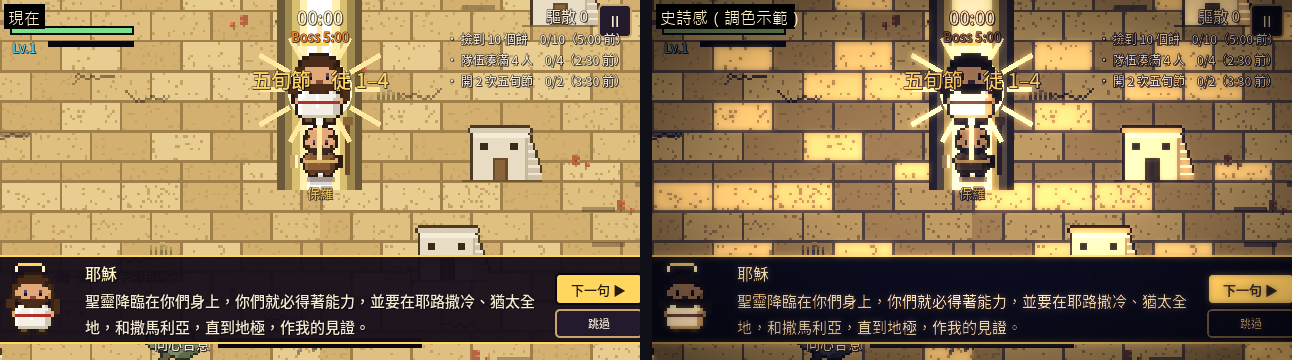
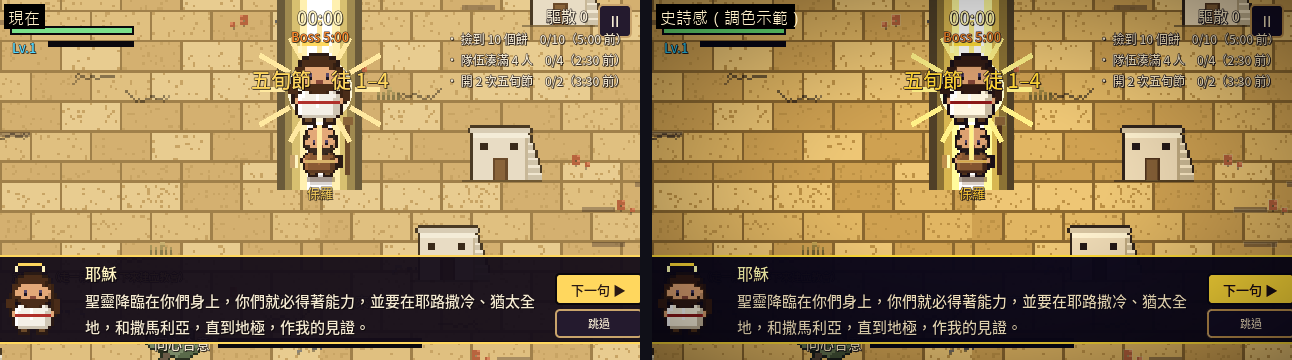
docs: 風格提案調色改版（保護膚色、提高飽和、拿掉光暈）
依使用者意見：膚色變黑、整體太暗、飽和不足且偏糊。

diff --git a/tools/style_proposal.py b/tools/style_proposal.py
@@ -27,22 +27,33 @@ def hex2rgb(h: str) -> np.ndarray:
 
 
 def grade(img: Image.Image) -> Image.Image:
-    a = np.asarray(img.convert("RGB"), dtype=float) / 255.0
+    """史詩感調色：保留原本的色相與細節，只做『輕微壓暗 + 暗部偏靛 + 亮部偏金 + 提高飽和 + 暈邊』。
+    不用漸層映射（會把所有顏色壓成同一條色帶、肤色變黑）、不用光暈模糊（會讓像素畫變糊）。"""
+    rgb = img.convert("RGB")
+    a = np.asarray(rgb, dtype=float) / 255.0
     lum = a @ np.array([0.299, 0.587, 0.114])
-    lum = np.clip((lum - 0.5) * 1.25 + 0.5, 0, 1) ** 1.9               # S 曲線加強對比，再壓暗中間調（低調：只有光源亮）
-    xs = [s[0] for s in STOPS]
-    cols = np.stack([hex2rgb(s[1]) / 255.0 for s in STOPS])
-    mapped = np.stack([np.interp(lum, xs, cols[:, c]) for c in range(3)], axis=-1)
-    sat = a.max(-1) - a.min(-1)
-    keep = np.clip(sat * 1.6, 0.2, 0.6)[..., None]                    # 越鮮豔（特效）越保留原色
-    out = mapped * (1 - keep) + a * keep * (0.55 + 0.45 * lum[..., None])
+    hsv = np.asarray(rgb.convert("HSV"), dtype=float) / 255.0
+    hue, sat, val = hsv[..., 0], hsv[..., 1], hsv[..., 2]
+    # 肤色保護：橘色相、中等飽和、不太暗 → 幾乎不調（只留下暈邊）
+    skin = ((hue > 0.02) & (hue < 0.095) & (sat > 0.25) & (sat < 0.8) & (val > 0.45)).astype(float)
+    skin = np.asarray(Image.fromarray((skin * 255).astype("uint8")).filter(ImageFilter.MaxFilter(3)), dtype=float)[..., None] / 255.0
+    # 1) 輕微壓暗（保留色相與飽和）：lum ** 1.4 的倍率，暗處多壓一點
+    scale = (np.clip(lum, 1e-4, 1) ** 1.4) / np.clip(lum, 1e-4, 1)
+    out = a * scale[..., None]
+    # 2) 暗部偏夜靛、亮部偏帝金（很輕）
+    out = out + ((1 - lum) ** 2)[..., None] * (hex2rgb("#2a2a6a") / 255.0) * 0.16
+    out = out + (lum ** 3)[..., None] * (hex2rgb("#e8b060") / 255.0) * 0.08
+    # 3) 提高飽和
+    g = out.mean(-1, keepdims=True)
+    out = np.clip(g + (out - g) * 1.4, 0, 1)
+    # 4) 肤色與其他部分混回原色
+    out = out * (1 - skin * 0.9) + a * (0.97) * skin * 0.9
+    # 5) 暈邊（輕）
     h, w = lum.shape
     yy, xx = np.mgrid[0:h, 0:w]
     r = np.sqrt(((xx - w / 2) / (w / 2)) ** 2 + ((yy - h / 2) / (h / 2)) ** 2)
-    out *= (1 - 0.55 * np.clip(r - 0.35, 0, 1) ** 1.3)[..., None]       # 暈邊
-    glow = Image.fromarray((np.clip(out * (lum[..., None] > 0.7), 0, 1) * 255).astype("uint8")).filter(ImageFilter.GaussianBlur(3))
-    out = np.clip(out + np.asarray(glow, dtype=float) / 255.0 * 0.3 * hex2rgb("#ffd890") / 255.0 * 1.6, 0, 1)   # 亮處泛金光
-    return Image.fromarray((out * 255).astype("uint8"))
+    out *= (1 - 0.42 * np.clip(r - 0.4, 0, 1) ** 1.3)[..., None]
+    return Image.fromarray((np.clip(out, 0, 1) * 255).astype("uint8"))
 
 
 def font(size: int) -> ImageFont.FreeTypeFont:
